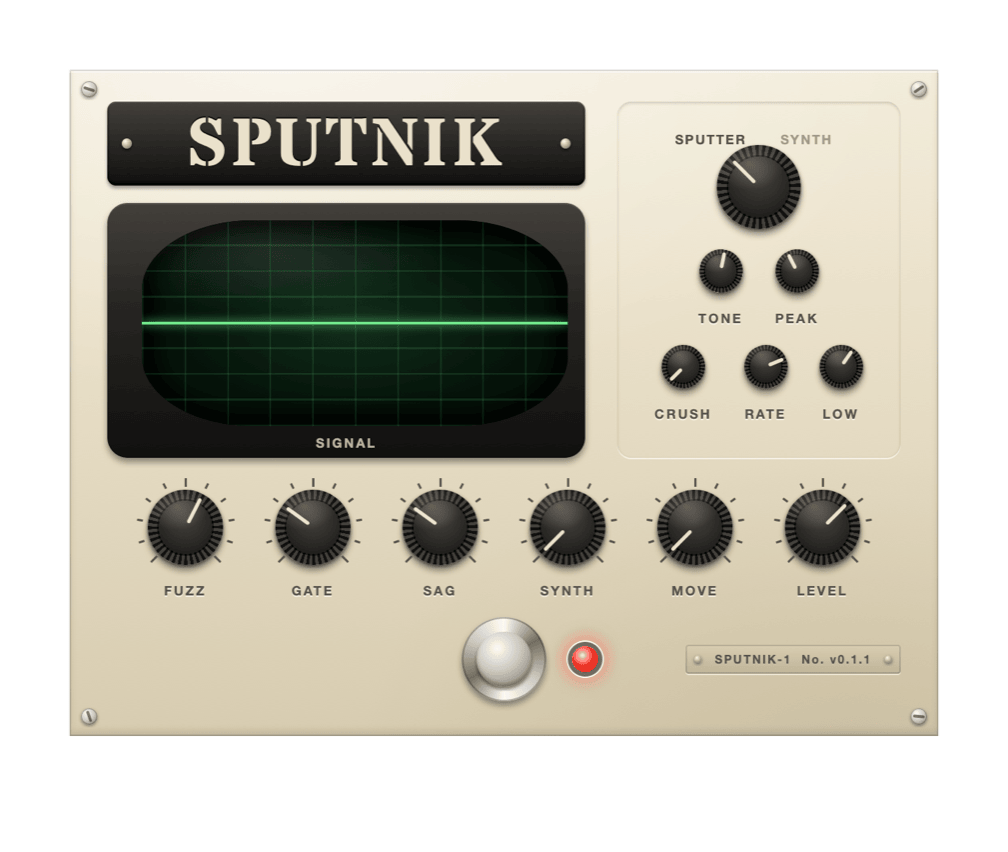
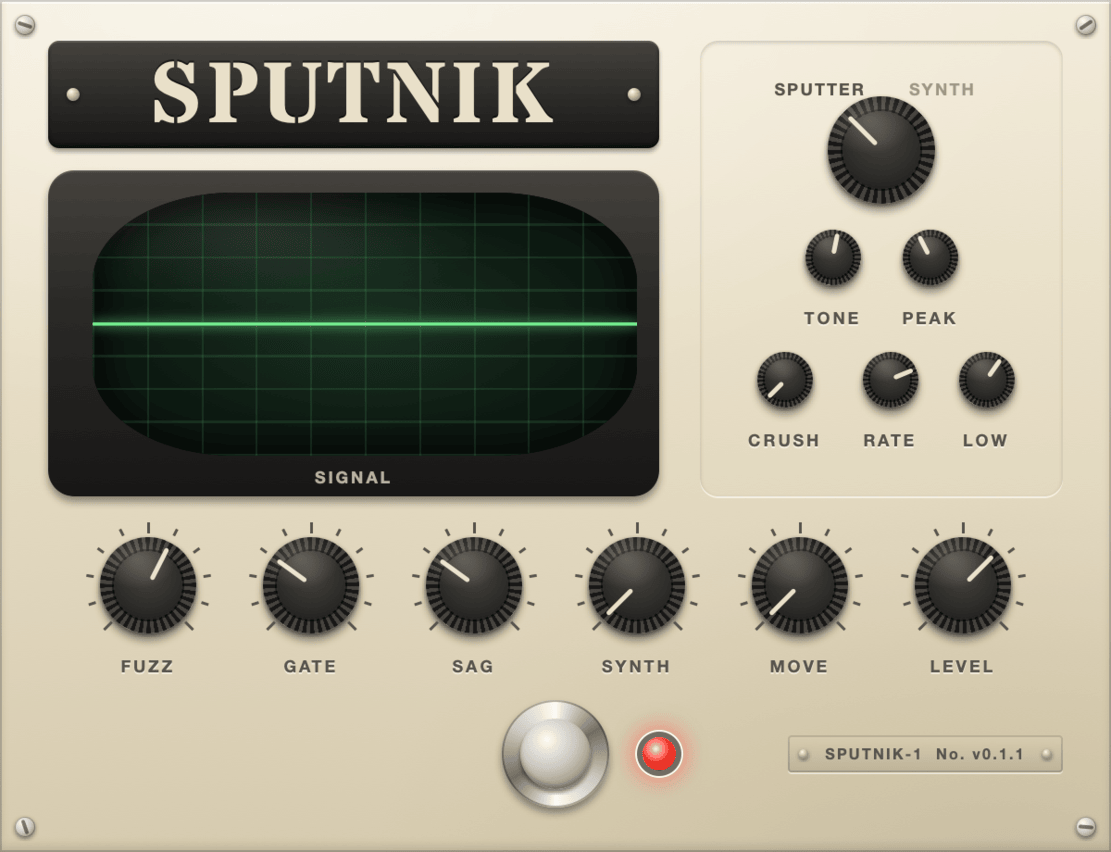
Crop screenshots to the object and its shadow
The margin added for the drop shadow made the screenshot taller than
the window, so after scaling the object filled less of the image and
sat above centre. The script now trims the transparent edges with
ImageMagick before scaling, and the workflow installs it.

Claude-Session: https://claude.ai/code/session_01M6vpxR81VaPY9T4oUmhAa4

diff --git a/.claude/skills/screenshot/SKILL.md b/.claude/skills/screenshot/SKILL.md
@@ -14,13 +14,14 @@ the `alt` text gets updated.
 1. Run `cargo test` so `ui/mock.json` is known to match the plugin's
    parameters and defaults, and the shot shows the real controls at
    their defaults. If it's stale, rewrite it with `BLESS=1 cargo test`.
-2. Run `scripts/screenshot.sh`. It needs `pngquant`
-   (`brew install pngquant`). It renders the page against its mock in
-   WebKit at 2x and `PAGE.size`, with the version from `Cargo.toml`.
-   It drops the `html` and `body` backgrounds, so the object sits on
-   transparency with its shadow. Then it writes `docs/<name>.png` 852 px
-   tall, quantized with pngquant, and sets the README `<img>` `width` to
-   half its pixel width. An older `docs/<name>.jpg` is deleted and the
+2. Run `scripts/screenshot.sh`. It needs pngquant and ImageMagick
+   (`brew install pngquant imagemagick`). It renders the page against
+   its mock in WebKit at 2x and `PAGE.size`, with the version from
+   `Cargo.toml`, plus a margin for the drop shadow. It drops the `html`
+   and `body` backgrounds, so the object sits on transparency with its
+   shadow. Then it crops to what's visible, writes `docs/<name>.png`
+   852 px tall, quantized with pngquant, and sets the README `<img>`
+   `width` to half its pixel width. An older `docs/<name>.jpg` is deleted and the
    README `<img>` pointed at the PNG.
 3. Look at the PNG. If fonts haven't loaded, a knob is mid-glide or the
    mock's values are off, fix that and rerun it. To see the

diff --git a/README.md b/README.md
@@ -1,6 +1,6 @@
 # Sputnik
 
-<img src="docs/sputnik.png" width="504" alt="Sputnik, a cream enamel mission-control console with a stencilled SPUTNIK badge, a green phosphor oscilloscope showing the output, a Sputter/Synth selector with tone, peak, crush, rate and low trims, a row of fuzz, gate, sag, synth, move and level bakelite knobs, a centred footswitch with a red lamp, and a riveted ID plate">
+<img src="docs/sputnik.png" width="555" alt="Sputnik, a cream enamel mission-control console with a stencilled SPUTNIK badge, a green phosphor oscilloscope showing the output, a Sputter/Synth selector with tone, peak, crush, rate and low trims, a row of fuzz, gate, sag, synth, move and level bakelite knobs, a centred footswitch with a red lamp, and a riveted ID plate">
 
 A digital synth fuzz for guitar and bass, as a VST3 and CLAP plugin for
 macOS and Windows. A square-wave fuzz that chokes and sputters, with an
